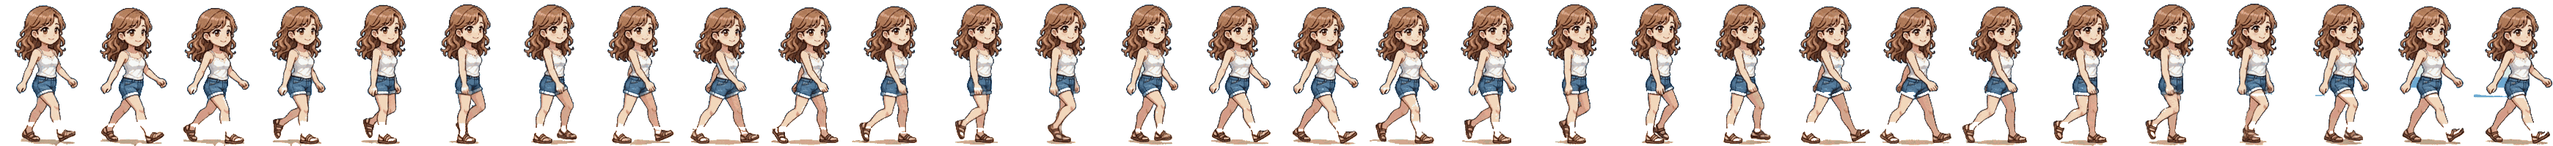
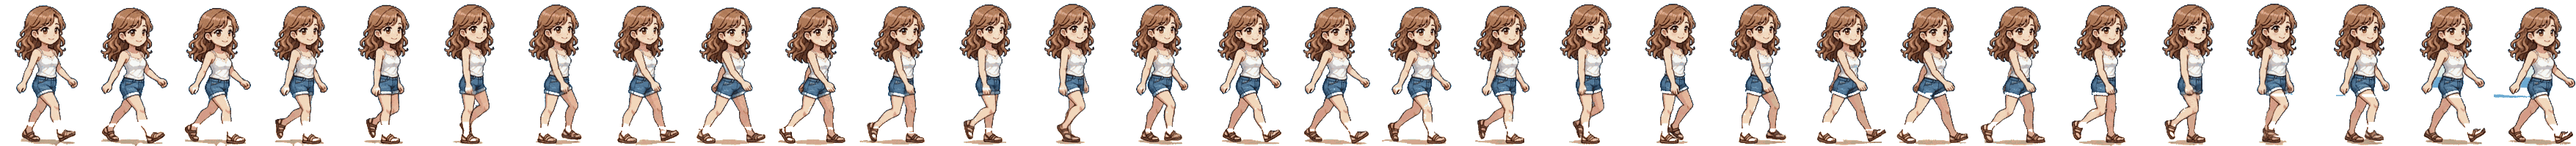
いつもの ミオを ボブ＋白タンク＋白スカート（Gemini の 歩き GIF）に
- tools/mio_gif: 歩きは 全コマの 中央値を 背景に して 足を ぬく（--bg time）・海の 背景用 --sea・--base・自動の はんいを 複数コマで
- assets/mio/whiteskirt_bob: walk 30コマ＋横向きの stand
- game/mio-gif.js: index.json の base を いつもの 見た目に・横向きの 絵は 歩いた 向きで 反転・服の 名前と ひとことを index.json から
- sw.js v351

Claude-Session: https://claude.ai/code/session_01PV2MDoW8eYpCQDB9M9yore

diff --git a/sw.js b/sw.js
@@ -2,7 +2,7 @@
 // 更新が届かない端末が出ないように：
 //  - インストール時は画面の部品だけを保存する（音声40MBを一度に取りにいくと、1つ失敗しただけで更新が止まるため）。音声は聞いたときに保存
 //  - いつもネットの最新版を先に取りにいき（変わっていなければ304で軽い）、つながらない・遅いときだけ保存した物を使う
-const CACHE='hoshienglish-v350',AUD='hoshienglish-audio',MIOC='hoshienglish-mio';
+const CACHE='hoshienglish-v351',AUD='hoshienglish-audio',MIOC='hoshienglish-mio';
 const CORE=['./','index.html','manifest.webmanifest','icon-192.png','icon-512.png','apple-touch-icon.png','beach/scene.js','beach/scene.css','beach/host.js','beach/host-after.js','game/se.js','game/levels/index.js','game/levels/es.js','game/levels/jh.js','game/levels/jh-more.js','game/levels/hs.js','game/levels/hs-more.js','game/levels/adv.js','game/levels/adv-more.js','game/levels/basic-add.js','game/extras/pop.js','game/extras/season.js','game/extras/folk.js','game/extras/cheer.js','game/extras/talk.js','game/grammar/es.js','game/grammar/jh.js','game/grammar/hs.js','game/catalog.js','game/music-lofi.js','game/game.js','game/recent.js','game/adventure.js','game/cards-data.js','game/cards.js','game/cards.css','game/mina-lines.js','game/mina-talk.js','game/mina-sense.js','game/mina.js','game/mina.css','game/lessons/index.js','game/lessons/es.js','game/lessons/jh.js','game/lessons/hs.js','game/lessons/manabi.js','game/lessons/icons.js','game/lesson.js','game/gram-link.js','game/gram-see.js','game/bonus.css','game/motivate.js','game/motivate.css','game/review.js','game/review.css','game/kaiwa-data.js','game/kaiwa-story.js','game/kaiwa.js','game/kaiwa.css','game/sensei-data.js','game/sensei-drill-more.js','game/sensei-scenes.js','game/sensei.js','game/deep-data.js','game/deep-more.js','game/deep.js','game/sensei.css','game/adventure.css','game/game.css','game/bottle.js','game/bottle.css','game/zakka-data.js','game/zakka-more.js','game/zakka-talk.js','game/zakka-goods.js','game/zakka-goods-talk.js','game/zakka-now.js','game/zakka.js','game/zakka.css','game/tutor-data.js','game/tutor-more.js','game/tutor-teach.js','game/tutor-talk.js','game/tutor.js','game/tutor.css','game/gift-data.js','game/gift-vary.js','game/gift-quick.js','game/gift.js','game/gift.css','game/love-data.js','game/love-more.js','game/love-extra.js','game/love-final.js','game/love.js','game/love.css','game/cg-data.js','game/cg.js','game/shop-data.js','game/shop-mutter.js','game/mio.js','game/mio-pix.js','game/look-mix.js','game/mio-doki.js','game/mio-gif.js','game/shop-serve-data.js','game/shop-buyin-data.js','game/shop-serve.js','game/shop-deco.js','game/shop.js','game/cbook.js','game/mine-items.js','game/mine.js','game/mine-story.js','game/mine-rest.js','game/mine-walkie.js','game/ore.js','game/hours.js','game/mio-room.js','game/mio-home.js','game/dungeon-art.js','game/dungeon.js','game/mio-talk.js','game/mio-chat.js','game/mio-love-data.js','game/mio-love.js','game/date-data.js','game/date.js','game/house-data.js','game/house.js','game/fest-data.js','game/fest.js','game/mio-spice.js','game/doki.js','game/mio-memo.js','game/mio-study-data.js','game/mio-study.js','game/mio-ctr-data.js','game/mio-ctr-long.js','game/kaiwa-moved.js','game/mio-ctr.js','game/cg-more.js','game/cg.css','game/shop.css','game/date.css','game/house.css','game/fest.css','game/cbook.css','game/ore.css','game/food-data.js','game/food.js','game/food.css','game/tango-talk.css','game/unchiku-data.js','game/unchiku.js','game/winfo.js','game/winfo-ex.js','game/winfo-data.js','game/winfo-data-tr.js','game/winfo-data-jh.js','game/winfo-data-jh2.js','game/winfo-data-fill.js','game/winfo-data-add.js','game/winfo-roots.js','game/winfo-roots-hs.js','game/winfo-roots-adv.js','game/winfo-roots2.js','game/winfo-roots-hs2.js','game/winfo-roots-adv2.js','game/winfo-roots-adv3.js','game/winfo-roots-adv4.js','game/winfo-roots-tr.js','game/winfo-memo.js','game/winfo-memo-jh.js','game/winfo-memo-jh2.js','game/winfo-memo-hs.js','game/winfo-memo-hs2.js','game/winfo-memo-adv.js','game/winfo-memo-adv2.js','game/winfo-memo-adv3.js','game/winfo-memo-adv4.js','game/winfo-memo-adv5.js','game/abbr.js','game/mina-react-data.js','game/mina-react.js','game/mina-chat-data.js','game/mina-chat.js','game/tango-talk.js','game/horror-data.js','game/horror.js','game/search.js','game/wordtap.js','game/horror.css','game/study-data.js','game/study.js','game/study.css','game/unit.js','game/unit-lines.js','game/modal-data.js','game/modal.js','game/unit-perfect.js','game/unit-comp.js','game/unit-shikumi.js','game/verb-check.js','game/drill-jp.js','game/shikumi-drill.js','game/teach-why.js','game/teach-why2.js','game/unit-auto.js','game/unit-jp.js','game/mina-qa.js','game/mame.js','game/mini-place.js','game/mame.css','game/practice.js','game/kata.js','game/kata.css','game/mina-kotsu.js','game/mina-plan.js','game/gram-go.js','game/modal.css','game/plan.css'];
 self.addEventListener('install',e=>{e.waitUntil(caches.open(CACHE).then(c=>Promise.all(CORE.map(u=>fetch(u,{cache:'reload'}).then(r=>{if(r.ok)return c.put(u,r)}).catch(()=>{})))).then(()=>self.skipWaiting()))});
 self.addEventListener('activate',e=>{e.waitUntil(caches.keys().then(ks=>Promise.all(ks.filter(k=>k!==CACHE&&k!==AUD&&k!==MIOC).map(k=>caches.delete(k)))).then(()=>self.clients.claim()))});

diff --git a/game/mio-gif.js b/game/mio-gif.js
@@ -11,7 +11,7 @@ let IDX=null,cur=null,fail=false,t0=0;const M={};   // M[動き] = {m: json, im:
 function pref(){try{return localStorage.getItem('hoshi_mioGif')||''}catch(e){return ''}}
 function dayN(){const d=new Date();return d.getFullYear()*400+d.getMonth()*31+d.getDate()}
 function pickLook(){if(!IDX)return null;const ks=Object.keys(IDX.looks||{}).filter(k=>(IDX.looks[k].motions||[]).includes('stand'));if(!ks.length)return null;
-  const p=pref();if(p==='off')return null;if(ks.includes(p))return p;return ks[(dayN()*7)%ks.length]}
+  const p=pref();if(p==='off')return null;if(ks.includes(p))return p;if(IDX.base&&ks.includes(IDX.base))return IDX.base;return ks[(dayN()*7)%ks.length]}   // base＝いつもの 見た目
 function loadMotion(look,k){const o=M[k]={ok:0};
   fetch(BASE+look+'/'+k+'.json').then(r=>{if(!r.ok)throw 0;return r.json()}).then(m=>{o.m=m;const im=new Image();
     im.onload=()=>{o.im=im;o.ok=1};im.onerror=()=>{o.ok=-1;if(k==='stand')fail=true};im.src=BASE+look+'/'+(m.img||k+'.png')}).catch(()=>{o.ok=-1;if(k==='stand')fail=true})}
@@ -19,7 +19,8 @@ function start(){if(IDX||t0)return;t0=Date.now();
   fetch(BASE+'index.json').then(r=>{if(!r.ok)throw 0;return r.json()}).then(j=>{IDX=j;cur=pickLook();if(!cur){fail=true;return}
     const L=IDX.looks[cur];['stand'].concat(L.motions.filter(k=>k!=='stand')).forEach(k=>loadMotion(cur,k))}).catch(()=>{fail=true})}
 /* 見た目の 名前・服の ひとこと（MIOPX.look）も GIF の 服に あわせる（index.json の pix ＝ mio-pix.js の 服の id） */
-if(window.MIOPX&&MIOPX.look){const lk=MIOPX.look;MIOPX.look=night=>{if(cur&&!fail){const L=IDX.looks[cur],o=L.pix&&(MIOPX.OUT||[]).concat(MIOPX.SUMMER||[]).find(x=>x.id===L.pix);if(o)return o}return lk(night)}}
+if(window.MIOPX&&MIOPX.look){const lk=MIOPX.look;MIOPX.look=night=>{if(cur&&!fail){const L=IDX.looks[cur],o=L.pix&&(MIOPX.OUT||[]).concat(MIOPX.SUMMER||[]).find(x=>x.id===L.pix);if(o)return o;
+    if(L.en)return Object.assign({},lk(night),{id:cur,n:L.name,en:L.en,ja:L.ja,w:L.w})}return lk(night)}}
 function frameOf(k,now){const o=M[k];const m=o.m;return Math.floor(now/m.ms)%m.n}
 function draw(c,x,y,pose,f,opt){opt=opt||{};start();
   if(fail||pref()==='off')return prev(c,x,y,pose,f,opt);
@@ -29,7 +30,7 @@ function draw(c,x,y,pose,f,opt){opt=opt||{};start();
   /* まばたき: 4.2びょうに 1回 くらい */
   if(k==='stand'&&M.blink&&M.blink.ok===1){const b=M.blink.m,ph=(now+x*37)%4200;if(ph<b.n*b.ms)k='blink'}
   const o=M[k],m=o.m,i=k==='blink'?Math.min(m.n-1,Math.floor(((now+x*37)%4200)/m.ms)):frameOf(k,now);
-  const flip=k==='walk'&&((m.face==='right'&&opt.dir<0)||(m.face==='left'&&opt.dir>0));
+  const flip=m.face&&m.face!=='front'&&((m.face==='right'&&opt.dir<0)||(m.face==='left'&&opt.dir>0));
   const t=c.getTransform(),s=(t.a||1)/4,fx=x+7,fy=y+32+(opt.dy||0);   // 絵は 1マス＝4ドット
   const W=m.w*s,H=m.h*s,X=Math.round(t.e+fx*(t.a||1)-(flip?m.w-m.fx:m.fx)*s),Y=Math.round(t.f+fy*(t.d||1)-m.fy*s);
   c.save();c.setTransform(1,0,0,1,0,0);c.imageSmoothingEnabled=s<1;

diff --git a/tools/mio_gif/mio_gif.py b/tools/mio_gif/mio_gif.py
@@ -17,7 +17,7 @@ import sys, os, re, json, argparse
 sys.path.insert(0, os.path.dirname(os.path.abspath(__file__)))
 import numpy as np
 from PIL import Image, ImageSequence
-from seg import seg, comps
+from seg import seg, comps, tmask
 
 ROOT = os.path.abspath(os.path.join(os.path.dirname(__file__), '..', '..'))
 OUT = os.path.join(ROOT, 'assets', 'mio')
@@ -37,11 +37,12 @@ def load(f):
 def autobox(F, pad=28):
     """キャラの いる 横の はんい。 左右の はしの 色を 背景と みなして、 ちがう 列を さがす"""
     H, W, _ = F[0].shape
-    a = F[len(F) // 2]
-    side = np.concatenate([a[:, :40], a[:, -40:]], 1)
-    med = np.median(side, 1)
-    d = np.sqrt(((a - med[:, None]) ** 2).sum(2))
-    col = (d > 70).sum(0) > H * 0.04
+    cnt = np.zeros(W); col = np.zeros(W, bool)
+    for a in F[::max(1, len(F) // 6)]:
+        side = np.concatenate([a[:, :40], a[:, -40:]], 1)
+        med = np.median(side, 1)
+        d = np.sqrt(((a - med[:, None]) ** 2).sum(2))
+        c1 = (d > 70).sum(0); cnt += c1; col |= c1 > H * 0.04
     xs = np.where(col)[0]
     xs = xs[(xs > 40) & (xs < W - 40)]
     if not len(xs):
@@ -52,7 +53,7 @@ def autobox(F, pad=28):
         if q - p > 12:
             runs.append((s, p)); s = q
     runs.append((s, xs[-1]))
-    s, e = max(runs, key=lambda r: r[1] - r[0])
+    s, e = max(runs, key=lambda r: cnt[r[0]:r[1] + 1].sum())   # いちばん 中身の 多い かたまり
     return max(130, s - pad), min(W - 130, e + pad)
 
 
@@ -100,6 +101,9 @@ def main():
     p.add_argument('--ms', type=int, default=0, help='1コマの 時間（ミリ秒）。 0なら GIF の まま')
     p.add_argument('--box', default='', help='キャラの いる 横の はんい x0,x1（自動で だめな とき）')
     p.add_argument('--thr', type=int, default=60, help='背景と みなす 色の ちがい（ぬけすぎ→小さく・のこる→大きく）')
+    p.add_argument('--bg', default='auto', choices=['auto', 'row', 'time'], help='背景の はかり方（auto: 歩きは time＝全コマの 中央値・ほかは row＝行ごと）')
+    p.add_argument('--sea', action='store_true', help='背景に 海が ある とき。 足もとの 青い 波・白い あわを けす（青い 服の ときは 使わない）')
+    p.add_argument('--base', action='store_true', help='この 見た目を いつもの ミオ（index.json の base）に する')
     p.add_argument('--name', default='', help='見た目の 日本語名（index.json 用）')
     p.add_argument('--format', default='png', choices=['png', 'webp'], help='png（色を へらす・いちばん かるい）か webp（色そのまま・3倍 重い）')
     p.add_argument('--pix', default='', help='服の 名前・ひとことに 使う game/mio-pix.js の 服の id（例 tank）')
@@ -121,7 +125,12 @@ def main():
     walk = A.face != 'front'
     print(f'{len(F)}コマ {ms}ms  はんい x={box}')
     used = sorted({i for _, ix in parts for i in ix})
-    cuts = {i: cut(F[i], seg(F[i], box, thr=A.thr, legs=walk)) for i in used}
+    if A.bg == 'time' or (A.bg == 'auto' and walk):
+        # 歩きは コマで 背景が 見えたり かくれたり する ので、 全コマの 中央値を 背景に して 下半分を ぬく
+        B = np.median(np.stack(F), 0)
+        cuts = {i: cut(F[i], tmask(F[i], B, box, thr=A.thr, sea=A.sea)) for i in used}
+    else:
+        cuts = {i: cut(F[i], seg(F[i], box, thr=A.thr, legs=walk)) for i in used}
     # 大きさ: 立った 高さの 中央値を --height に
     hs = [anchor(cuts[i])[1] - anchor(cuts[i])[2] + 1 for i in used]
     sc = A.height / float(np.median(hs))
@@ -159,7 +168,7 @@ def main():
         else:
             q = sheet.quantize(colors=A.colors, method=Image.Quantize.FASTOCTREE, dither=Image.Dither.NONE)
             q.save(os.path.join(d, name), optimize=True)
-        meta = {'n': len(ix), 'w': int(W), 'h': int(H), 'fx': int(half), 'fy': int(fy), 'ms': ms, 'face': A.face if k == 'walk' else 'front', 'img': name, 'src': os.path.basename(A.gif), 'frames': ix}
+        meta = {'n': len(ix), 'w': int(W), 'h': int(H), 'fx': int(half), 'fy': int(fy), 'ms': ms, 'face': A.face, 'img': name, 'src': os.path.basename(A.gif), 'frames': ix}
         json.dump(meta, open(os.path.join(d, k + '.json'), 'w'), ensure_ascii=False)
         kb = os.path.getsize(os.path.join(d, name)) / 1024
         print(f'  {A.look}/{name}  {len(ix)}コマ {W}x{H}  {kb:.0f}KB')
@@ -177,6 +186,7 @@ def main():
     L = ind['looks'].setdefault(A.look, {'name': A.name or A.look, 'motions': []})
     if A.name: L['name'] = A.name
     if A.pix: L['pix'] = A.pix
+    if A.base: ind['base'] = A.look
     L['motions'] = sorted(set(L['motions']) | set(made), key=MOTIONS.index)
     json.dump(ind, open(ip, 'w'), ensure_ascii=False, indent=1)
     print('index.json:', A.look, L['motions'])

diff --git a/tools/mio_gif/seg.py b/tools/mio_gif/seg.py
@@ -65,3 +65,59 @@ def seg(a,box,thr=60,legs=False):
         for q in c:m2[q]=True
     m=m2
   return m
+
+
+def hdist(a, B):
+    r, g, b = a[..., 0], a[..., 1], a[..., 2]
+    R, G, Bb = B[..., 0], B[..., 1], B[..., 2]
+    return np.sqrt((r - R) ** 2 + (g - G) ** 2 + (b - Bb) ** 2 + 2.5 * (((r - g) - (R - G)) ** 2 + ((g - b) - (G - Bb)) ** 2))
+
+
+def fillholes(m, x0, x1, mx=40):
+    """とじこめられた 小さい 穴（スカートの すき間 など）を うめる"""
+    h = ~m; h[:, :x0] = False; h[:, x1:] = False
+    H = m.shape[0]
+    for c in comps(h, x0, x1):
+        if len(c) <= mx and all(0 < y < H - 1 and x0 < x < x1 - 1 for y, x in c):
+            for q in c: m[q] = True
+    return m
+
+
+def tmask(a, B, box, thr=60, sea=False):
+    """上半分は 行ごとの 背景（seg）、 腰から 下は 全コマの 中央値 B との ちがいで ぬく"""
+    H, W, _ = a.shape; x0, x1 = box
+    up = seg(a, box, thr=thr, legs=False)
+    side = np.concatenate([a[:, max(0, x0 - 120):x0], a[:, x1:x1 + 120]], 1)
+    rowm = np.broadcast_to(np.median(side, 1)[:, None, :], a.shape)
+    d = hdist(a, B)
+    dr = hdist(a, rowm)
+    lo = (d > thr * 0.6) & (dr > thr * 0.25); lo[:, :x0] = False; lo[:, x1:] = False
+    # 波の 白い すじ（よこに 細い 線）を けす: たてに 3ドット ない ものは ぬく
+    v = lo & np.roll(lo, 1, 0) & np.roll(lo, -1, 0); lo = v | np.roll(v, 1, 0) | np.roll(v, -1, 0)
+    covered = hdist(B, rowm) > thr          # どの コマでも キャラが いる 所（スカートの まん中 など）
+    ys = np.where((up | lo).any(1))[0]
+    top, bot = ys[0], ys[-1]
+    cut = top + int((bot - top) * 0.55)
+    m = up.copy()
+    m[cut:] = lo[cut:] | (up[cut:] & ((d[cut:] > thr * 0.3) | covered[cut:]))
+    h = bot - top
+    # スカートより 下の 青っぽい・白い 点（波の あわ・海）は ぬく（はだ・サンダル・りんかくは 赤みが 強い）
+    hem = top + int(h * 0.71)
+    r, b = a[..., 0], a[..., 2]
+    if sea:   # 海の 背景の とき だけ（青い 服・白い くつしたも 消える ので ふだんは しない）
+        m[hem:] &= ~(b[hem:] > r[hem:] - 12)
+        g = a[..., 1]
+        m[cut:] &= ~((b[cut:] > r[cut:] + 25) & (b[cut:] > g[cut:]))      # はっきり 青い 所（海）
+    # はしっこの 1ドットの かけらを けずって 小さい かたまりを すてる
+    k = m[cut:]; n = k.astype(int)
+    nb = np.roll(n, 1, 0) + np.roll(n, -1, 0) + np.roll(n, 1, 1) + np.roll(n, -1, 1)
+    m[cut:] = k & (nb >= 2)
+    # 足の 下の 砂の かげ: いちばん 下の 6% で 砂の 色に 近い 所は ぬく
+    ft = top + int(h * 0.94)
+    m[ft:] &= ~(dr[ft:] < thr * 0.8)
+    cs = comps(m, x0, x1); big = max(len(c) for c in cs)
+    m2 = np.zeros_like(m)
+    for c in cs:
+        if len(c) > big * 0.03 or (len(c) > 60 and min(y for y, x in c) < cut):
+            for q in c: m2[q] = True
+    return fillholes(m2, x0, x1)

diff --git a/tools/mio_gif/README.md b/tools/mio_gif/README.md
@@ -8,14 +8,19 @@ Gemini で 作った ミオの GIF を、 背景を ぬいて・大きさと 足
 python3 tools/mio_gif/mio_gif.py <GIF> <見た目> --split <動き>:<はじめ>-<おわり>,... [--face right] [--name 日本語名] [--pix 服id] [--preview]
 ```
 
-例（いまの 2本）:
+例:
 ```
+# いつもの ミオ（浜辺の 背景の 歩き → --sea。 1コマめ 7 を 横向きの 立ち に）
+python3 tools/mio_gif/mio_gif.py b.gif whiteskirt_bob --split walk:0-29,stand:7 --face right --sea --base --name "白タンクと 白スカート・ボブ"
 python3 tools/mio_gif/mio_gif.py g1.gif tankdenim_longwave --split stand:0-2,blink:3-4,wave:6-26 --name "白タンクと デニム・ゆるふわロング" --pix tank --preview
-python3 tools/mio_gif/mio_gif.py g2.gif tankdenim_longwave --split walk:0-29 --face right --preview
+python3 tools/mio_gif/mio_gif.py g2.gif tankdenim_longwave --split walk:0-29 --face right --bg row --preview
 ```
 
 - `--preview` で GIF の よこに `_preview.png`（赤い 線＝足の 裏と 体の まん中）が できる。 まず これで コマの 番号と 切りぬきを 見る
 - ぬけすぎ（足が 消える）→ `--thr 45`、 背景が のこる → `--thr 75`
+- 歩きは ふつう 全コマの 中央値を 背景に して 足を ぬく（`--bg time`）。 背景に 海が あって 足もとに 波が のこる → `--sea`（**青い 服の ときは 使わない**。 デニムが 消える。 その ときは `--bg row`）
+- `--base` で その 見た目を いつもの ミオに（index.json の base）
+- `--face right` の GIF は どの 動きも 左へ 向く とき 反転する
 - キャラが 見つからない・となりの 物まで 入る → `--box 150,480`（キャラの いる 横の はんい）
 
 ## ファイル名の きまり
